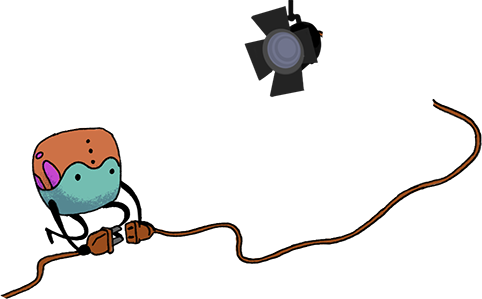
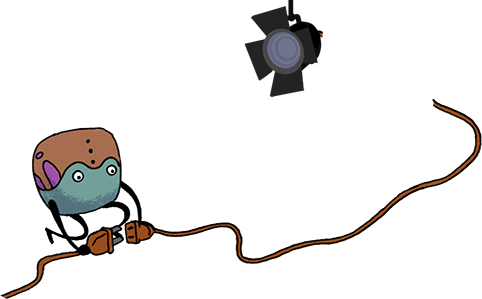
OperatingSystemApp: add daemons 3, 4, 5, 6 and 7
Add daemons 3 to 7 and split fence elements from background.
Update daemon 1 framesand add static daemons 8 and 9.

https://phabricator.endlessm.com/T24410

Changed region(s): [[0.0622, 0.4214, 0.249, 0.6923]]

diff --git a/com.endlessm.OperatingSystemApp/app/index.html b/com.endlessm.OperatingSystemApp/app/index.html
@@ -7,10 +7,35 @@
   </head>
 
   <body>
+
+    <div id="OS_daemon_4"
+         class="Animation"
+         style="left: 219px; top: 5px;"
+         data-frames="[672, 96, 96, 672, 96, 96, 96, 672, 96, 96]">
+    </div>
+
+    <div id="OS_daemon_8"
+         class="Animation"
+         style="left: 412px; top: 19px;"
+         data-frames="[96]">
+    </div>
+
+    <div id="OS_daemon_5"
+         class="Animation"
+         style="left: 496px; top: 168px;"
+         data-frames="[480, 96, 96, 96, 96, 480, 96, 96, 96, 96]">
+    </div>
+
+    <div id="OS_daemon_9"
+         class="Animation"
+         style="left: 284px; top: 206px;"
+         data-frames="[96]">
+    </div>
+
     <div id="OS_daemon_1"
          class="Animation"
          style="left: 1329px; top: 0px;"
-         data-frames="[1672, 96, 96, 96, 672, 96, 96, 96]">
+         data-frames="[96, 96, 96, 96, 672, 96, 96, 672]">
     </div>
 
     <div id="OS_daemon_2"
@@ -29,7 +54,34 @@
       <img id="second" class="hand" src="images/clock/second.png"/>
     </div>
 
-    <img id="lighting" src="images/lighting.png"/>
+    <div id="OS_daemon_7"
+         class="Animation"
+         style="left: 1684px; top: 432px;"
+         data-frames="[96, 96, 96, 96, 96, 96, 96, 96, 96, 96, 96, 96, 96, 96]">
+    </div>
+
+    <div id="OS_daemon_6"
+         class="Animation"
+         style="left: 1209px; top: 676px;"
+         data-frames="[96, 96, 96, 96, 96, 96, 96, 96, 96, 96, 96, 96, 96, 96, 96, 96, 96, 96, 96, 672]">
+    </div>
+
+
+    <img src="images/back_sign.png" style="left: 380px; top: 646px;"/>
+    <img src="images/fence_back.png" style="left: 328px; top: 700px;"/>
+
+    <div id="OS_daemon_3"
+         class="Animation"
+         style="left: 158px; top: 627px;"
+         data-frames="[96, 192, 96, 96, 384, 96, 96, 384, 96, 96, 96, 96, 96, 96, 96, 96, 96, 192, 96, 96, 96, 96, 96, 96,
+       96, 96, 672]">
+    </div>
+
+    <img src="images/fence_front.png" style="left: 326px; top: 865px;"/>
+    <img src="images/front_sign.png" style="left: 702px; top: 804px;"/>
+    <img src="images/fence_front_plants.png" style="left: 386px; top: 885px;"/>
+
+    <img id="lighting" src="images/lighting.png" />
 
     <script type = "text/javascript" src = "animation.js"></script>
     <script type = "text/javascript" src = "clock.js"></script>

diff --git a/com.endlessm.OperatingSystemApp/app/custom.css b/com.endlessm.OperatingSystemApp/app/custom.css
@@ -28,3 +28,24 @@ div.clock > img.hand.shadow {
   left: 94px;
 }
 
+/* Animations */
+
+@keyframes reveal {
+  from { opacity: 0; }
+  to   { opacity: 1; }
+}
+
+#lighting {
+  opacity: 0;
+  animation: reveal 1s ease-in 1;
+  animation-fill-mode: forwards;
+}
+
+@keyframes float {
+  from { top: 432px; }
+  to   { top: 440px; }
+}
+
+#OS_daemon_7 {
+  animation: float 1s ease-in infinite alternate;
+} 
